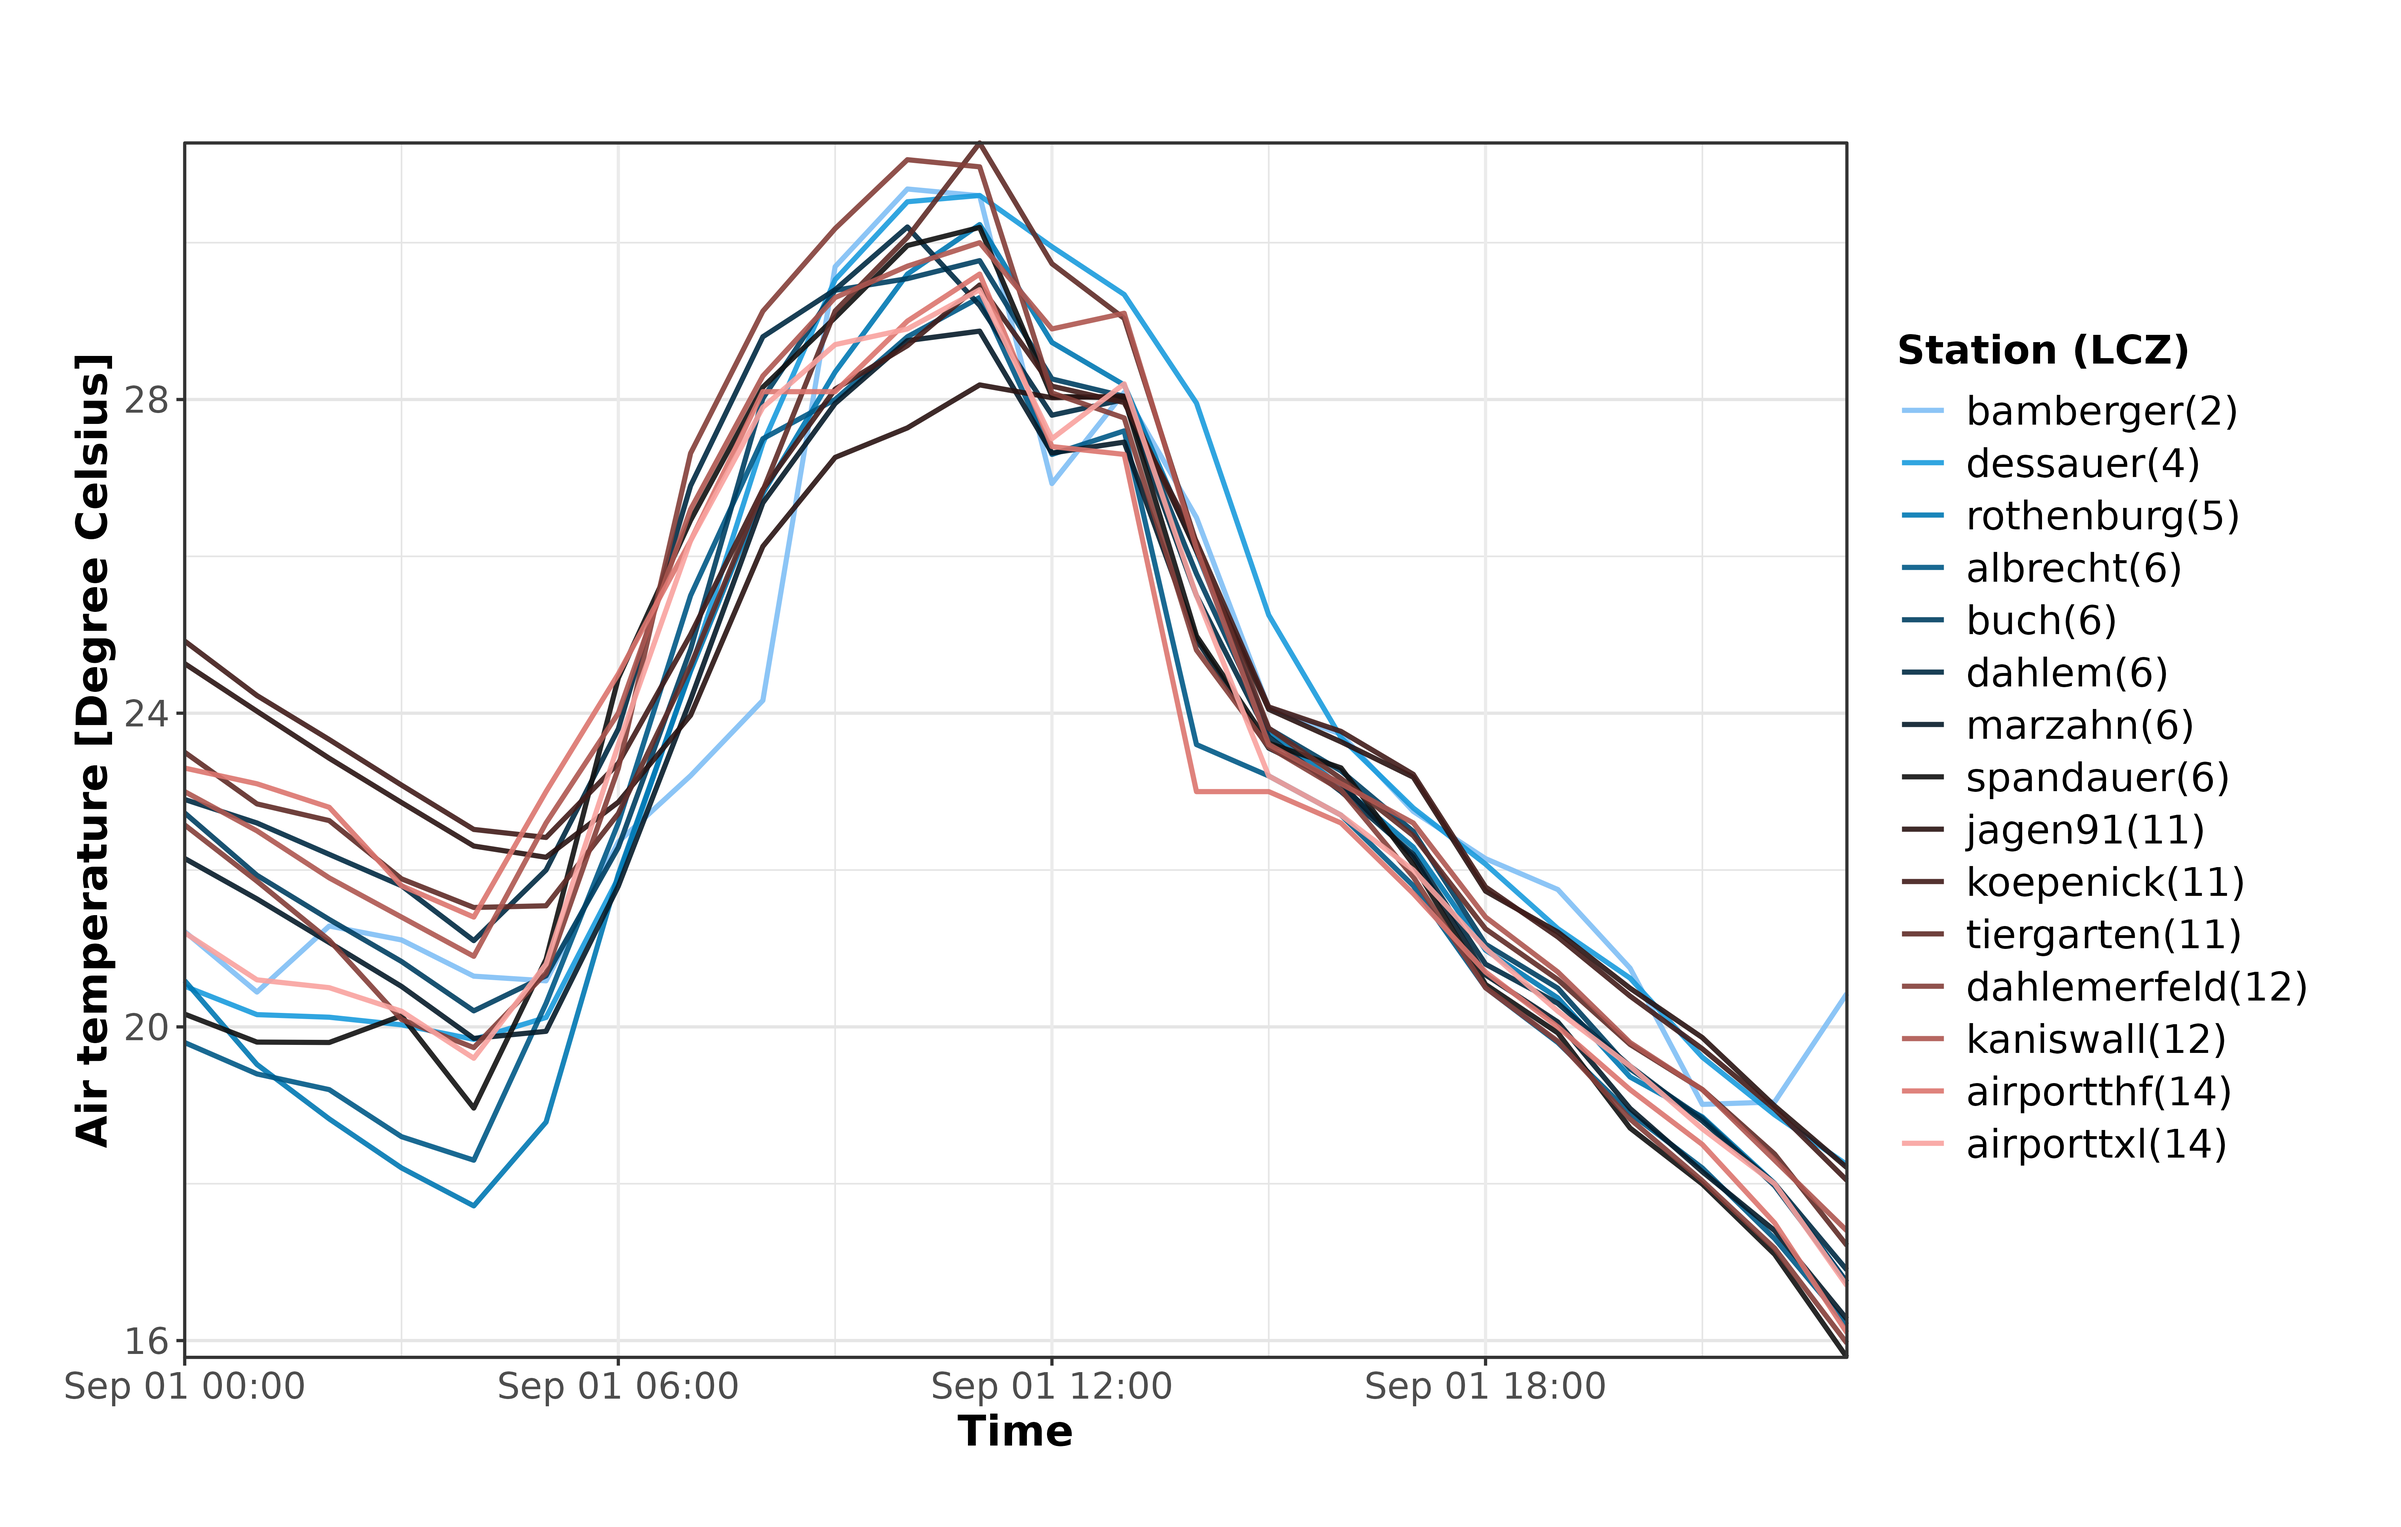
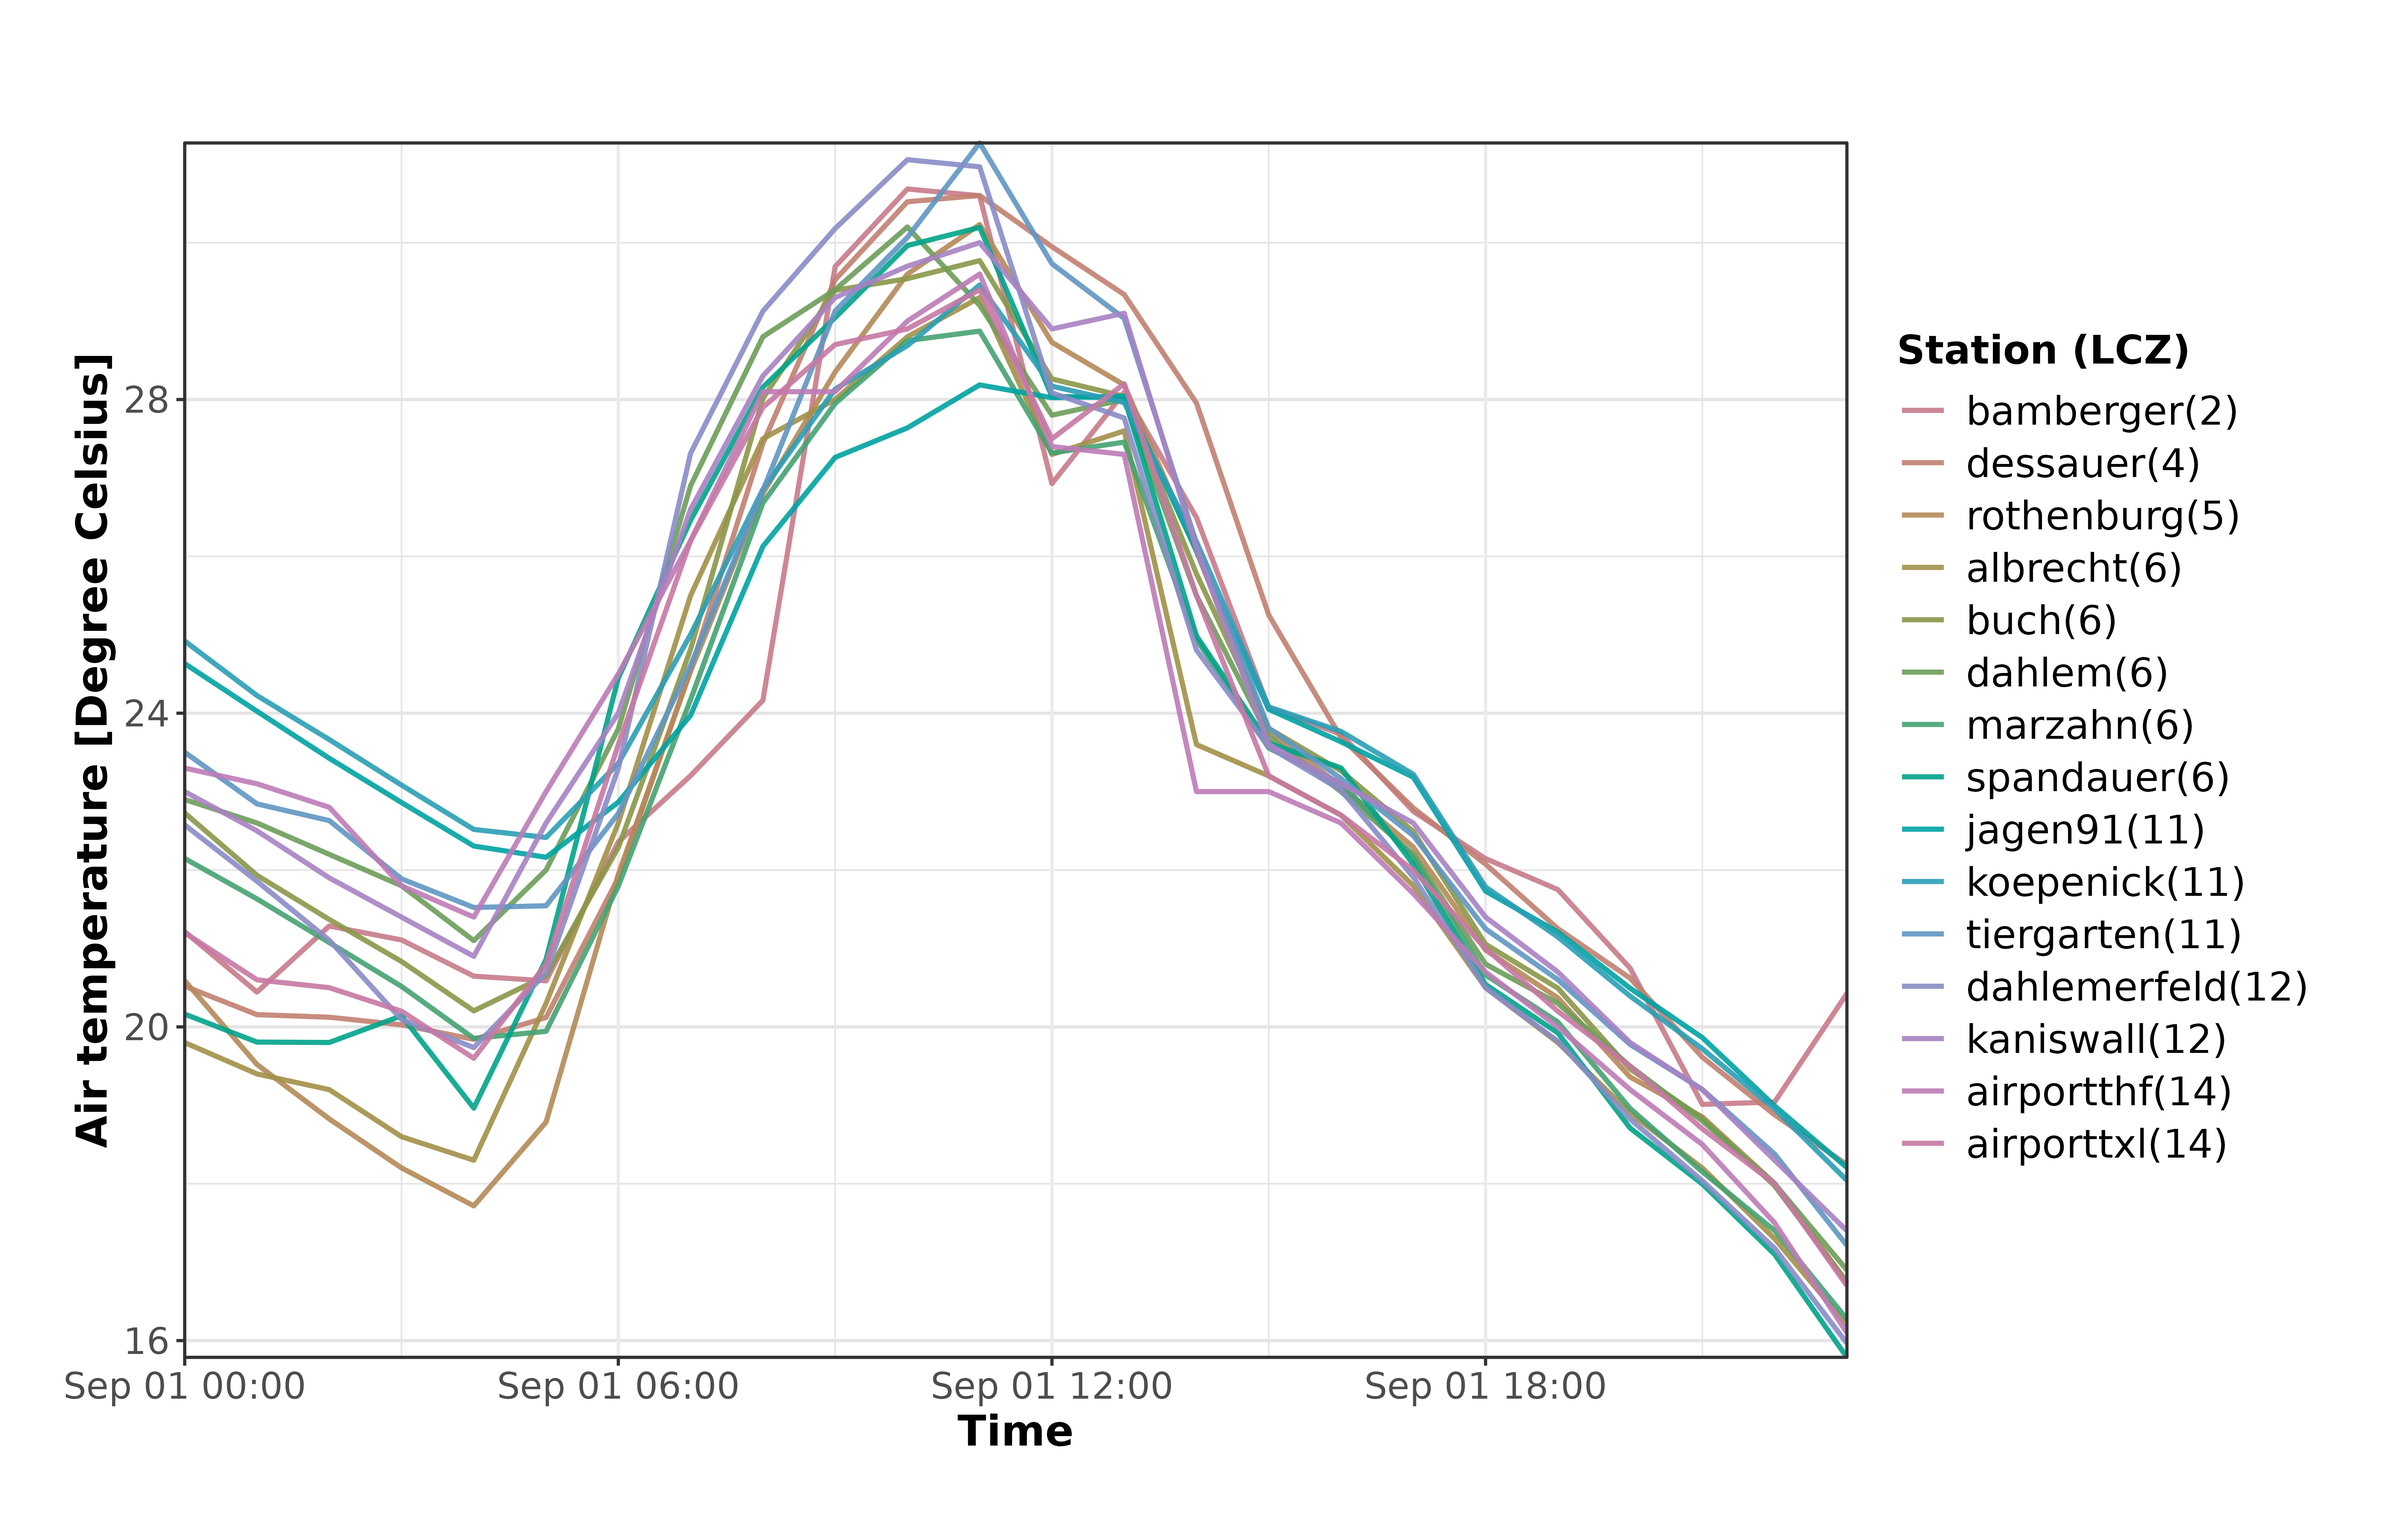
Deploying to gh-pages from @ ByMaxAnjos/LCZ4r@0c29b4b258246ba17a907a161901ef2897a6ce3b 🚀

Changed region(s): [[0.0624, 0.0936, 0.7803, 0.8733], [0.1248, 0.7174, 0.1561, 0.7486], [0.0936, 0.4367, 0.1248, 0.4679]]

diff --git a/reference/lcz_ts.html b/reference/lcz_ts.html
@@ -67,6 +67,7 @@
 <span>  impute <span class="op">=</span> <span class="cn">NULL</span>,</span>
 <span>  iplot <span class="op">=</span> <span class="cn">FALSE</span>,</span>
 <span>  isave <span class="op">=</span> <span class="cn">FALSE</span>,</span>
+<span>  palette <span class="op">=</span> <span class="st">"Dark 2"</span>,</span>
 <span>  inclusive <span class="op">=</span> <span class="cn">FALSE</span>,</span>
 <span>  ylab <span class="op">=</span> <span class="st">"Air temperature [Degree Celsius]"</span>,</span>
 <span>  xlab <span class="op">=</span> <span class="st">"Time"</span>,</span>
@@ -118,6 +119,10 @@ Can either be numeric e.g. month = 1:6 to select months 1-6 (January to June), o
 
 <dt>isave</dt>
 <dd><p>Save the plot into your directory.</p></dd>
+
+
+<dt>palette</dt>
+<dd><p>Define your qualitative color palette. Default is "Dark 2". The options are: "Pastel 1", Dark 3", "Set 2", "Set 3", "Warm", "Cold", "Harmonic", "Dynamic".</p></dd>
 
 
 <dt>inclusive</dt>
